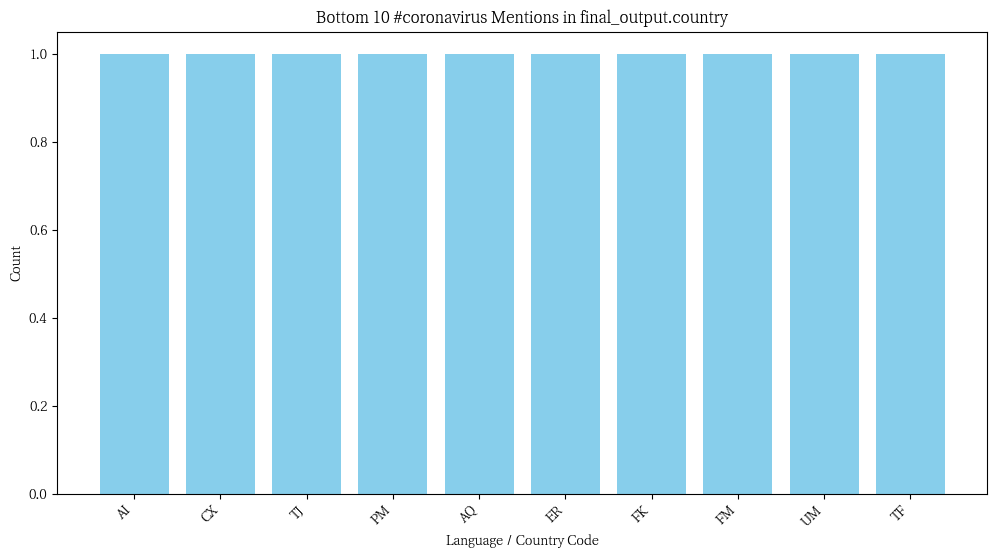
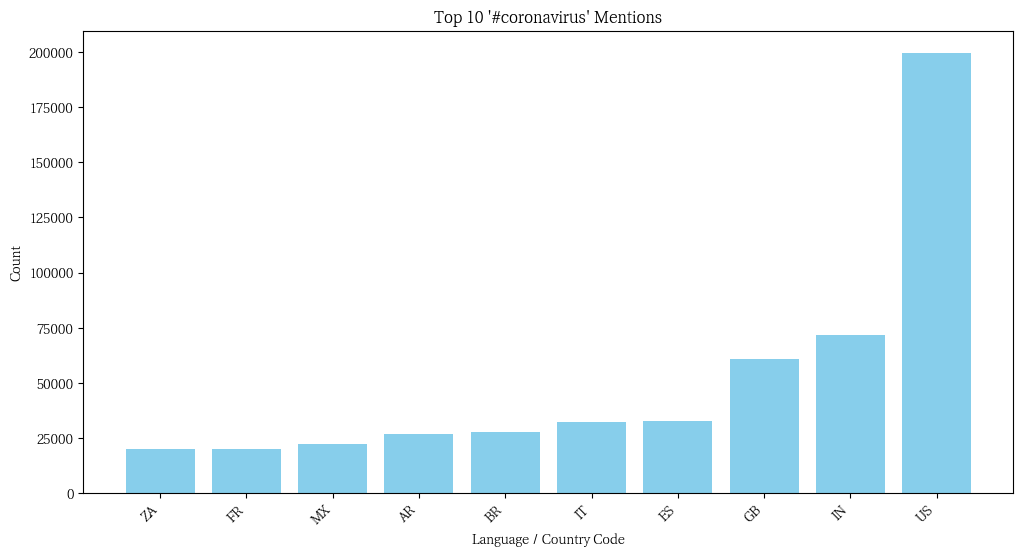
fixing image rendering

diff --git a/src/visualize.py b/src/visualize.py
@@ -31,8 +31,11 @@ if args.percent:
         else:
             counts[args.key][k] = 0  # Prevent division errors
 
-# Sort from LOW to HIGH
-sorted_items = sorted(counts[args.key].items(), key=lambda item: item[1])  # Sort ascending
+# Get top 10 
+sorted_items = sorted(counts[args.key].items(), key=lambda item: item[1], reverse=True)[:10]
+
+# sort the bars
+sorted_items = sorted(sorted_items, key=lambda item: item[1])
 
 # Ensure at least 10 items are selected, if available
 num_to_select = min(10, len(sorted_items))
@@ -49,7 +52,7 @@ plt.bar(labels, values, color='skyblue')
 plt.ylabel("Count")
 plt.xlabel("Language / Country Code")
 plt.xticks(rotation=45, ha="right")
-plt.title(f"Bottom {num_to_select} {args.key} Mentions in {os.path.basename(args.input_path)}")
+plt.title(f"Top 10 '{args.key}' Mentions")
 
 # Generate output filename
 output_filename = f"{args.key}_{os.path.basename(args.input_path).replace('.txt', '')}.png"

diff --git a/README.md b/README.md
@@ -18,12 +18,12 @@ This project analyzes geotagged tweets from 2020 to track the spread of coronavi
 The following graphs visualize the spread of the coronavirus discussion on Twitter:
 
 ### Hashtag Usage by Language
-![Hashtag Usage by Language - #coronavirus](./src/#coronavirus_final_output.lang.png)
-![Hashtag Usage by Language - #코로나바이러스](./src/#코로나바이러스_final_output.lang.png)
+![Hashtag Usage by Language - #coronavirus](src/#coronavirus_final_output.lang.png)
+![Hashtag Usage by Language - #코로나바이러스](src/#코로나바이러스_final_output.lang.png)
 
 ### Hashtag Usage by Country
-![Hashtag Usage by Country - #coronavirus](./src/#coronavirus_final_output.country.png)
-![Hashtag Usage by Country - #코로나바이러스](./src/#코로나바이러스_final_output.country.png)
+![Hashtag Usage by Country - #coronavirus](src/#coronavirus_final_output.country.png)
+![Hashtag Usage by Country - #코로나바이러스](src/#코로나바이러스_final_output.country.png)
 
 ### Hashtag Usage Over Time 
 ![Hashtag Over Time](./src/alternative_reduce.png)
